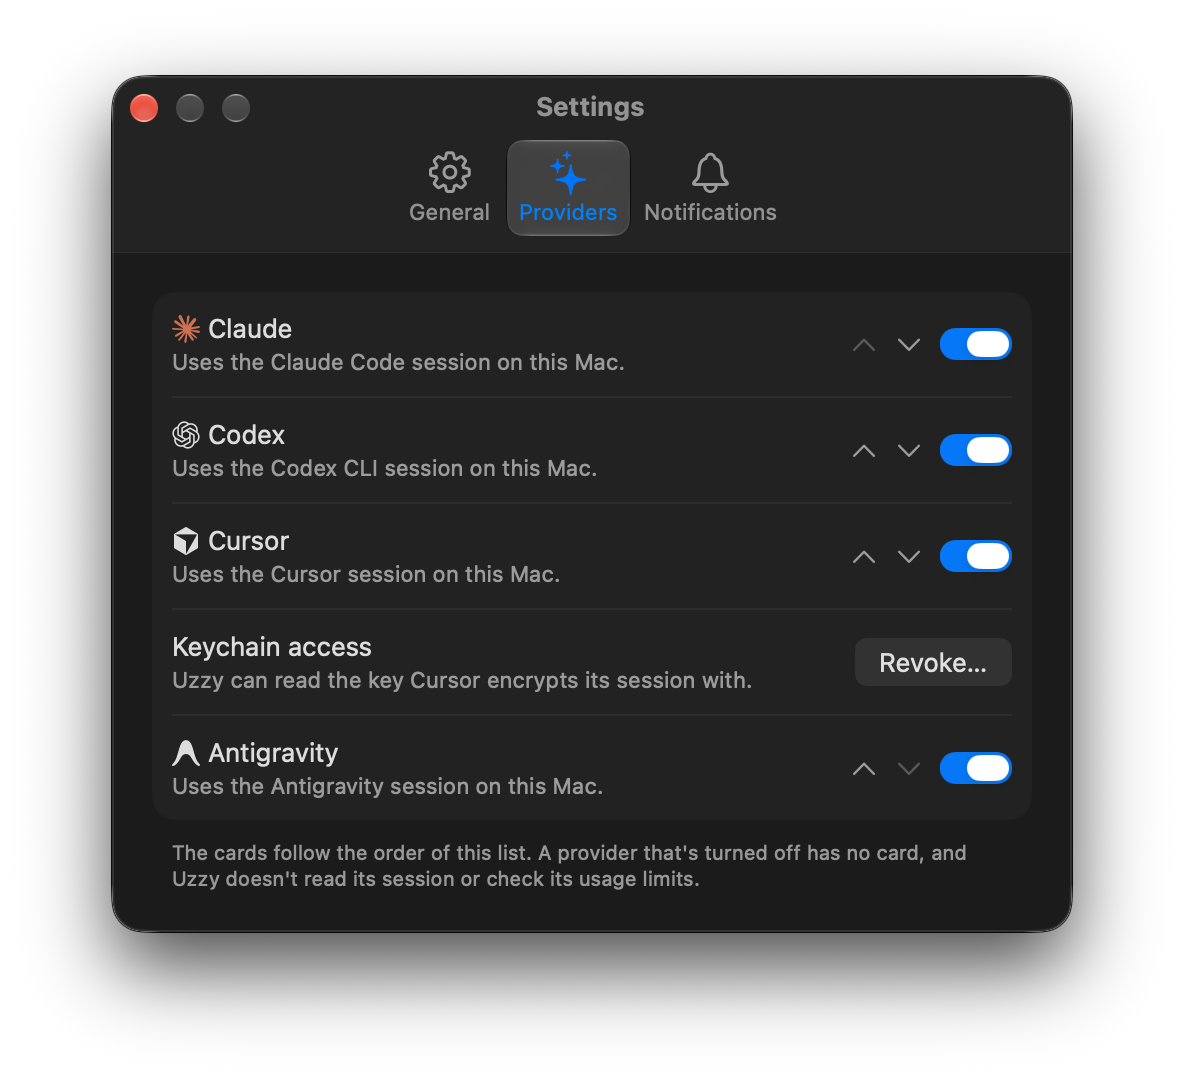
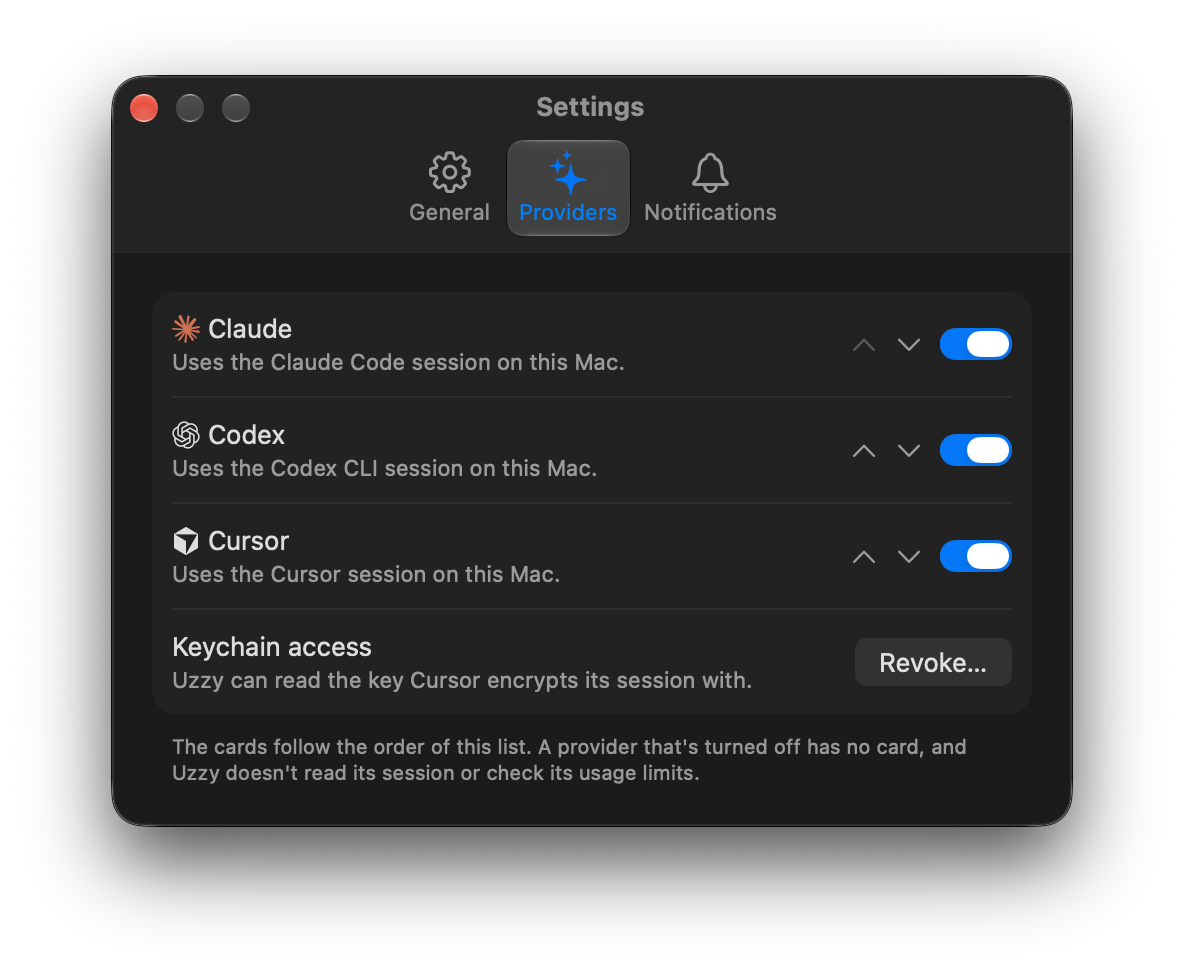
chore(site): remove Antigravity from site images
- Restore pre-Antigravity og.jpg from 76ba171.
- Remove Antigravity from panel.png and settings-providers.png and
  update their CSS dimensions in MacDesktopHero.tsx and content.ts.

diff --git a/site/src/content.ts b/site/src/content.ts
@@ -94,7 +94,7 @@ export const settingsTabs: {
     label: "Providers",
     image: "/settings-providers.png",
     width: 592,
-    height: 540,
+    height: 487,
     alt: "Uzzy Settings, Providers tab: Claude, Codex and Cursor with Keychain access revoke control, buttons to reorder them and a switch to turn each one on or off.",
     items: [
       {

diff --git a/site/src/components/MacDesktopHero.tsx b/site/src/components/MacDesktopHero.tsx
@@ -14,7 +14,7 @@ const FINDER_MENUS = ["File", "Edit", "View", "Go", "Window", "Help"] as const;
 const PANEL_IMG = {
   src: "/cover/panel.png",
   width: 408,
-  height: 991,
+  height: 669,
   alt: "The Uzzy panel: cards for Claude, Codex and Cursor with their plans, each usage limit with its bar, used percentage and reset time.",
 } as const;
 
